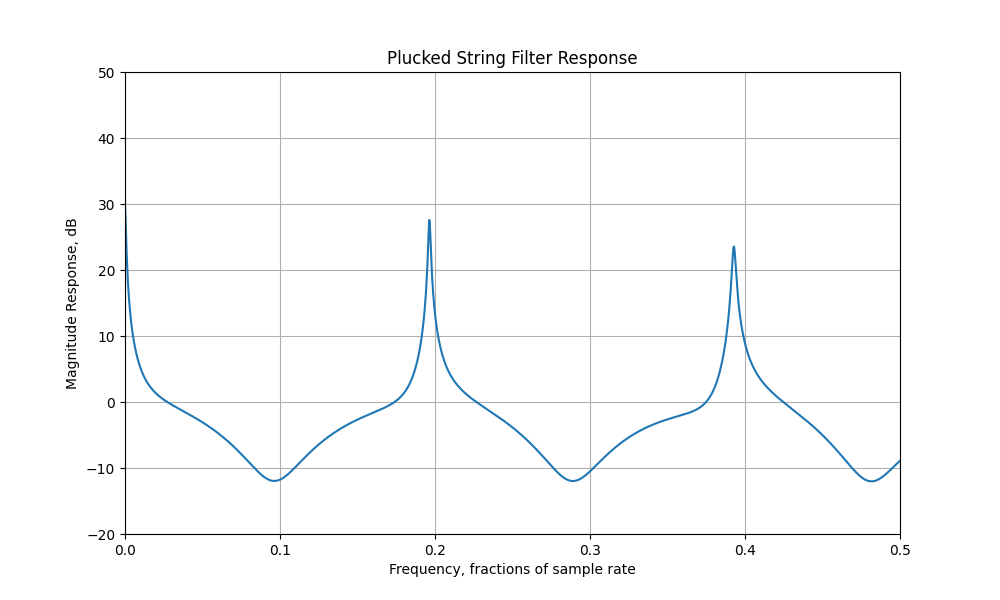
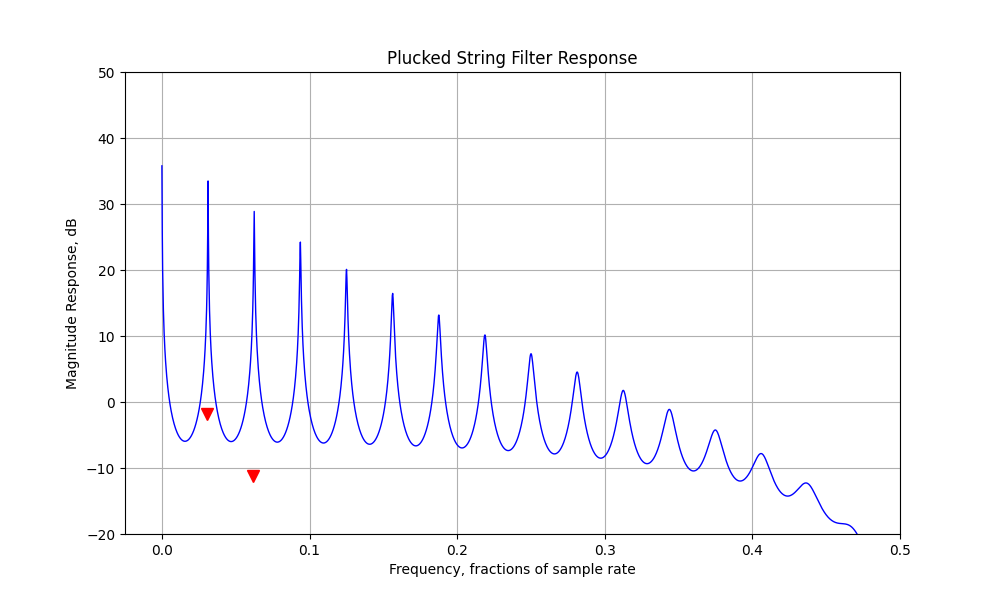
plotting

diff --git a/Projects/homework_6/src/main.py b/Projects/homework_6/src/main.py
@@ -42,20 +42,12 @@ def calcCentVal(a0, a1):
                 cent5Tolerance.append(combFreq)
     print("Frequencies in this range that are in the 5 cent tolerance are", cent5Tolerance)
 
-def Resonance_PluckedString(L_Val, R_Val, sampleRate):
-    numSamples = int(sampleRate/L_Val)
-    
-    def freqGrid(numSamples):
-        omega = 0
-        sampleStep = np.pi/numSamples
-        freqs = []
-        for i in range(numSamples):
-            normal = 0.5 / np.pi
-            freqs.append(omega * normal)
-            omega += sampleStep
-        # print(freqs)
-        return freqs
-    frequencyArray = freqGrid(numSamples)
+def Resonance_PluckedString(L_Val, R_Val, numHarmonix):
+    numPoints = 2000    
+    frequencyArray = np.linspace(0, np.pi, numPoints)
+    normalOmega = []
+    for omega in frequencyArray:
+        normalOmega.append(omega / (2* np.pi))
 
     def TransferFunction(freqArray, L, R):
         numerator_r = []
@@ -63,7 +55,7 @@ def Resonance_PluckedString(L_Val, R_Val, sampleRate):
         denom_r = []
         denom_i = []
         for omega in freqArray:
-            real_n = (np.cos(L + 1)* omega) + np.cos(L*omega)
+            real_n = np.cos((L + 1)* omega) + np.cos(L*omega)
             numerator_r.append(real_n)
             
             real_d = 2*np.cos( (L + 0.5)* omega) - R*np.cos(omega) - pow(R, L)
@@ -104,26 +96,45 @@ def Resonance_PluckedString(L_Val, R_Val, sampleRate):
         return decibels
     decibels = np.array(MagnitudeResponse(transferRes))
     
-    def Plot(freqArray, decibelMag):
+    def ResonanceMarkers(harmonics, lVal):
+        lRatio = lVal + 0.5
+        expected = np.arange(1, harmonics+1) / lRatio
+        omegaExpected = []
+        for omega in expected:
+            omegaExpected.append(omega * 2 * np.pi)
+        return omegaExpected
+    expected = np.array(ResonanceMarkers(numHarmonix, L_Val))
+    
+    def ExpectedMagnitude(frequencyArray, decibelArray, expectedOmega):
+        markerMag = []
+        for omega in expectedOmega:
+            closest = np.argmin(np.abs(frequencyArray - omega))
+            markerMag.append(decibelArray[closest])
+        return markerMag
+    
+    def Plot(freqArray, decibelMag, expectedPeaks):
         plt.figure(figsize=(10,6))
-        plt.plot(freqArray, decibelMag)
+        plt.plot(freqArray, decibelMag, 'b-', linewidth=1)
         plt.ylim(-20,50)
         plt.ylabel("Magnitude Response, dB")
 
-        plt.xlim(0, 0.5)
+        plt.xlim(-0.025, 0.5)
         plt.xlabel("Frequency, fractions of sample rate")
 
+        magOmegas = ExpectedMagnitude(freqArray, decibelMag, expected)
+        plt.plot(expectedPeaks / (2 * np.pi), magOmegas, 'v', markersize=8, color='red')
+        
         plt.title("Plucked String Filter Response")
         plt.grid(True)
         os.makedirs('../output', exist_ok=True)
         plt.savefig('../output/pluckedString.png')
-    
-    Plot(frequencyArray, decibels)
+    Plot(normalOmega, decibels, expected)
+
 
 
 def main():
     # calcCentVal(220, 1760)
-    Resonance_PluckedString(32, 0.999, 44100)
+    Resonance_PluckedString(32, 0.999, 16)
 
 if __name__ == "__main__":
     main()
